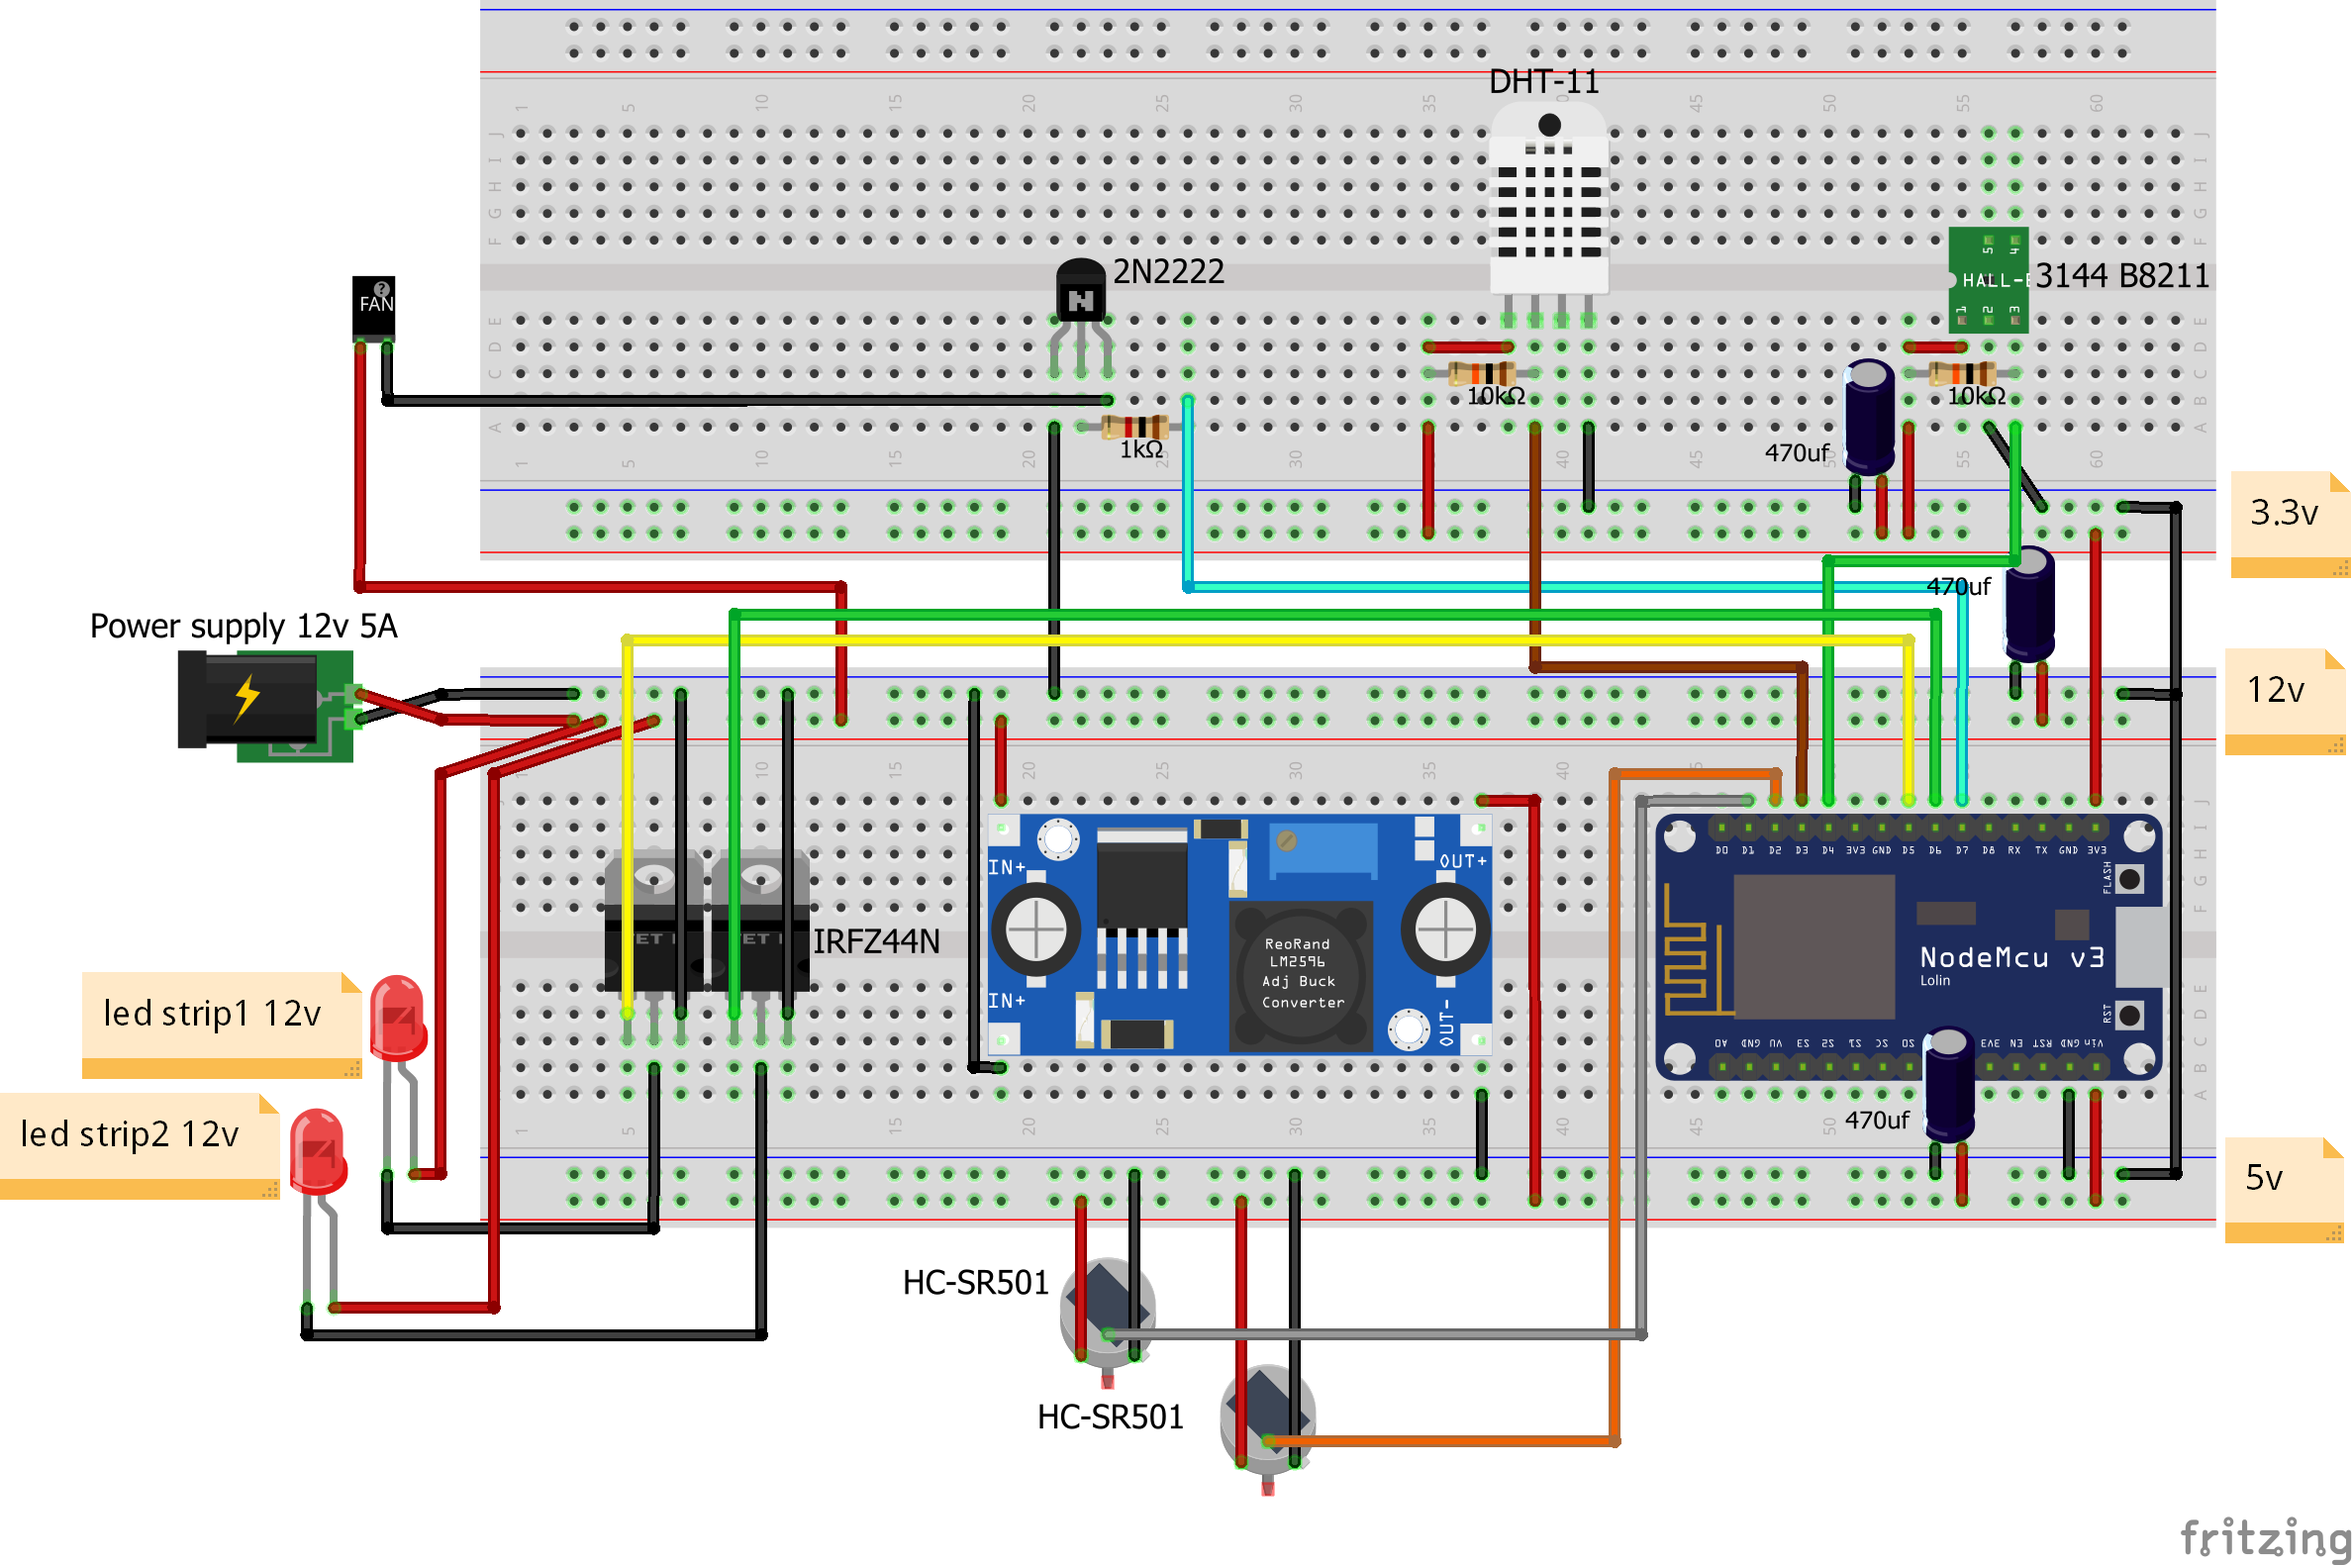
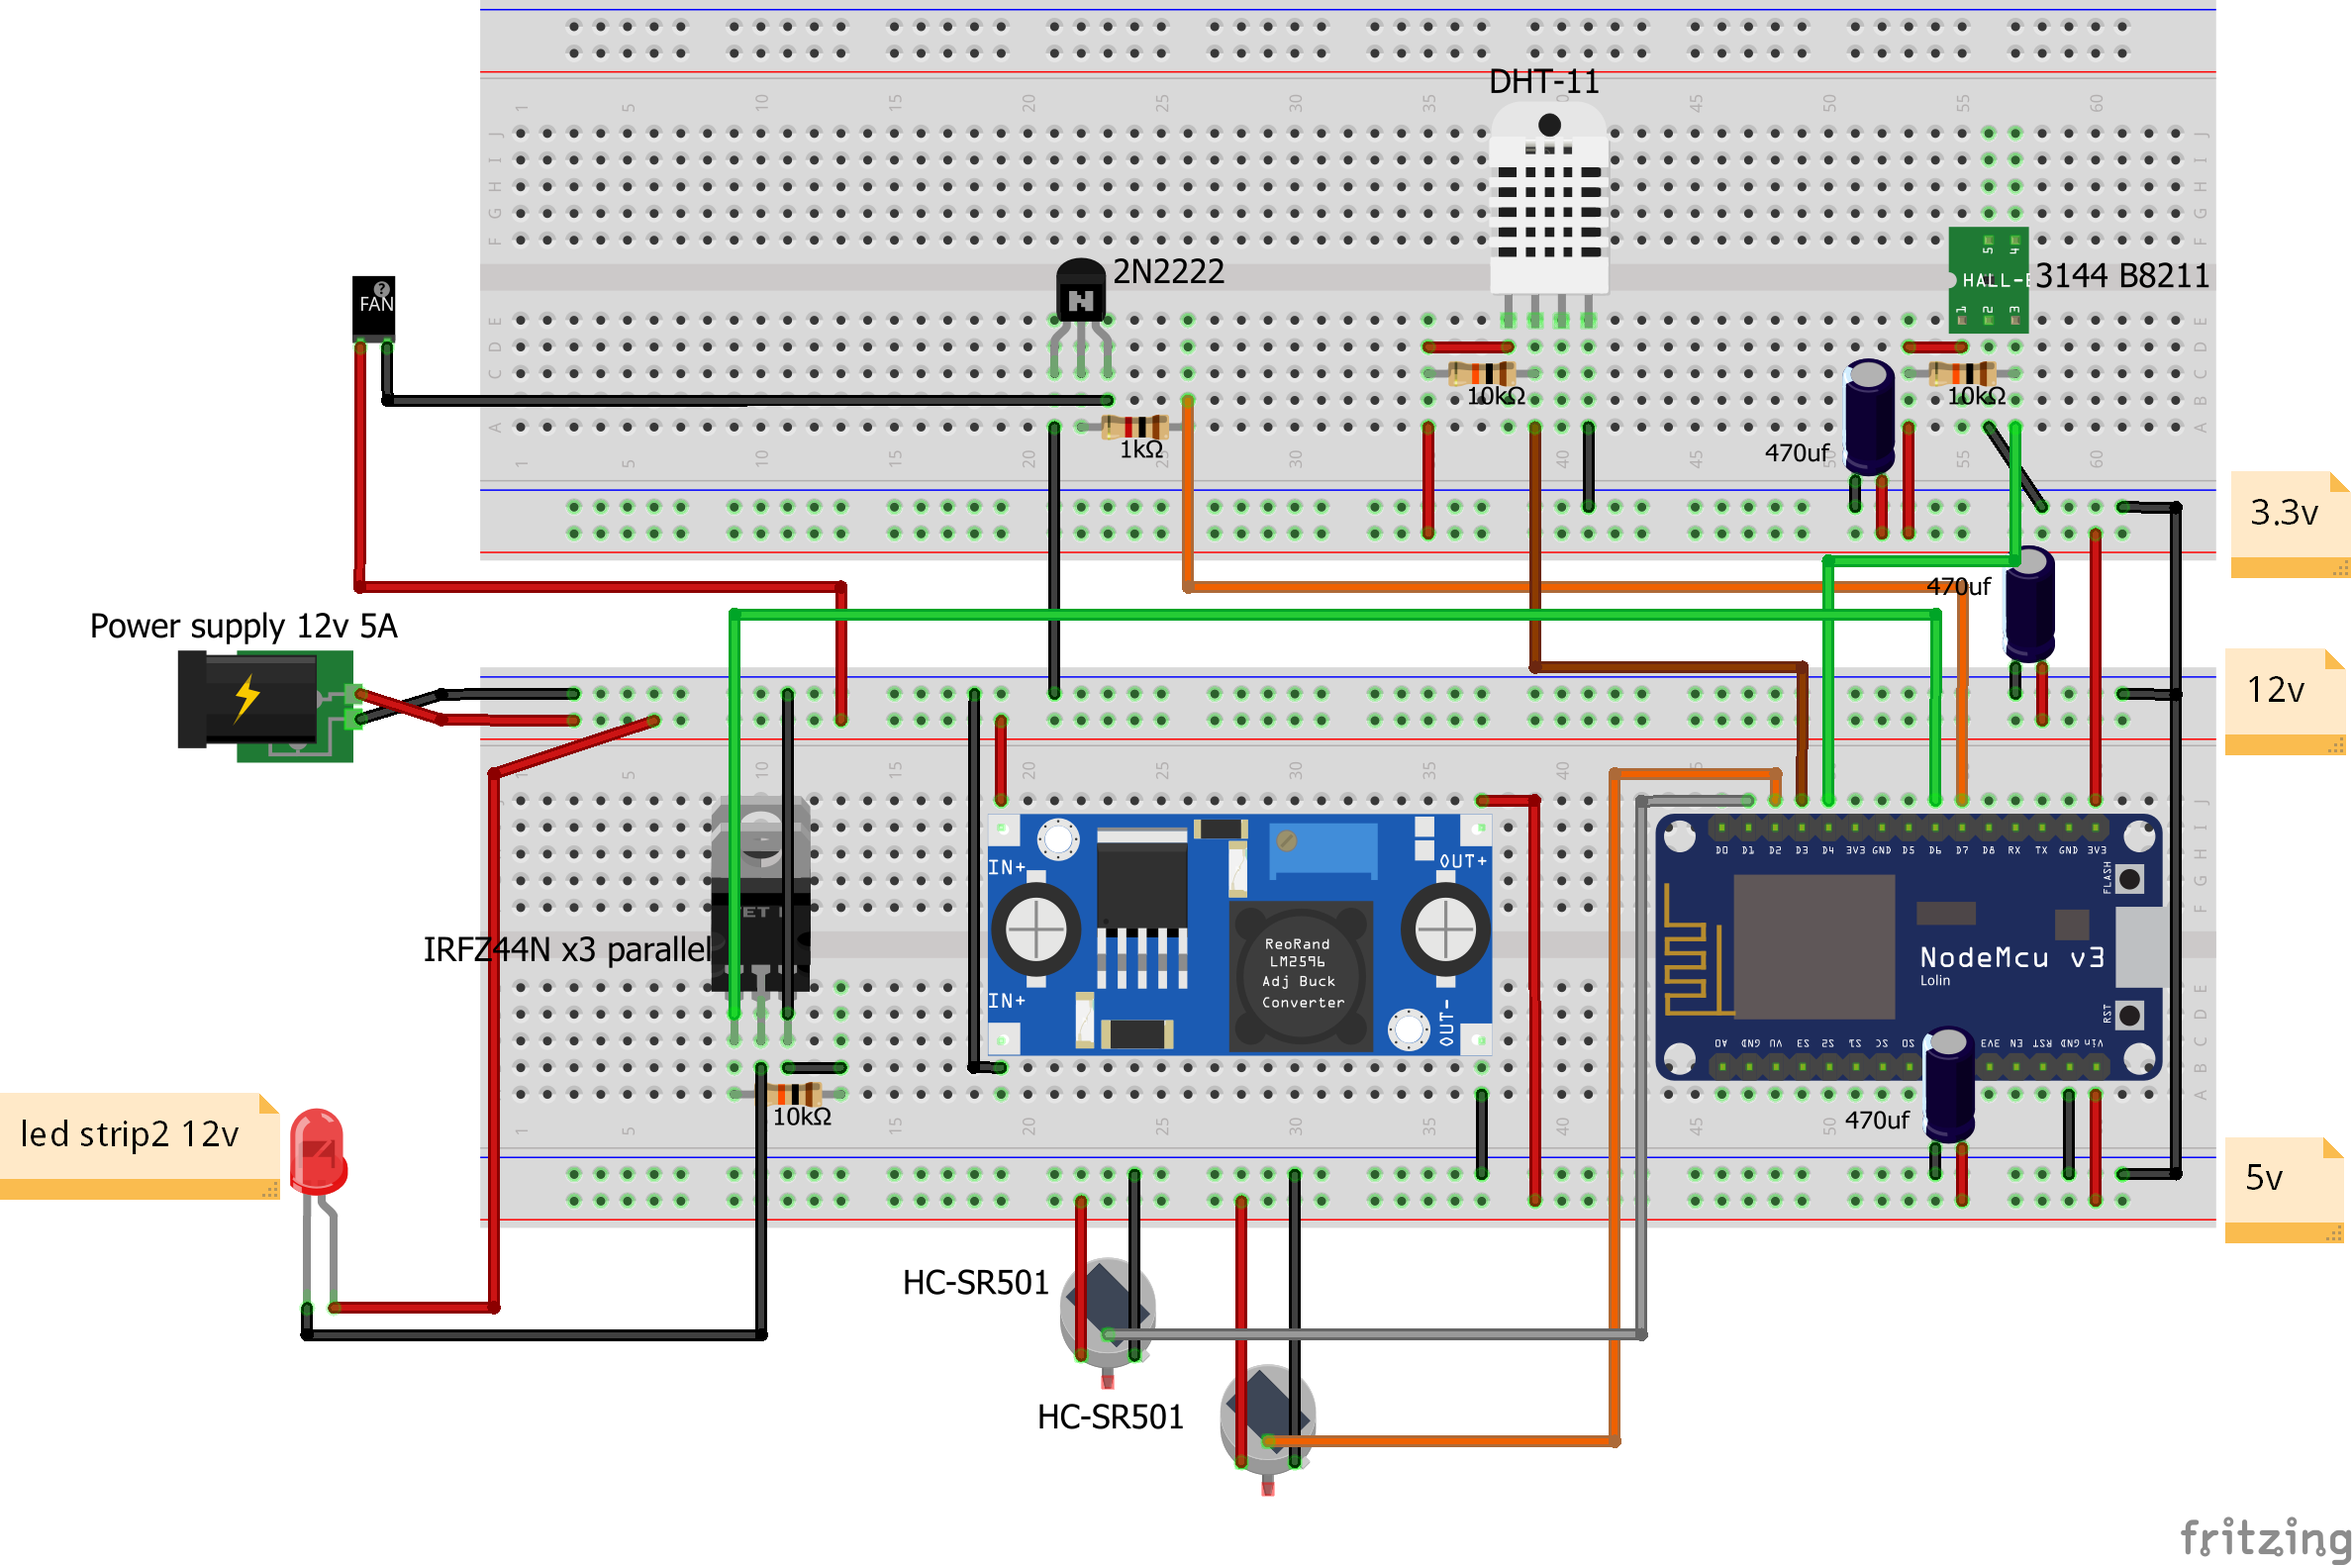
поставил яркую ленту, обновил прошивку и схему

Changed region(s): [[0.0311, 0.2479, 0.8409, 0.8058]]

diff --git a/esp_bathroom/src/main.cpp b/esp_bathroom/src/main.cpp
@@ -12,8 +12,7 @@
 
 const char* privateFile = "/private.json"; // файл для хранения учетных данных
 const char* configFile = "/config.json"; // файл для хранения настроек модуля
-const uint8_t LED1_PIN = D5;
-const uint8_t LED2_PIN = D6;
+const uint8_t LED_PIN = D6;
 const uint8_t FAN_PIN = D7;
 const uint8_t HALL_PIN = D4;
 const uint8_t TEMP_PIN = D3;
@@ -113,12 +112,10 @@ void fade(int from, int to) {
   int delta = (to - from) / fadeSteps;
   while (curstep < fadeSteps) {
     curpwm += delta;
-    analogWrite(LED1_PIN, curpwm);
-    analogWrite(LED2_PIN, curpwm);
+    analogWrite(LED_PIN, curpwm);
     curstep++;
     delay(fadeInterval);
   }
-  
 }
 
 void switchLed() {
@@ -338,8 +335,7 @@ void delayLoop() {
 
 void setup() {
   Serial.begin(115200);
-  pinMode(LED1_PIN, OUTPUT);
-  pinMode(LED2_PIN, OUTPUT);
+  pinMode(LED_PIN, OUTPUT);
   pinMode(FAN_PIN, OUTPUT);
   pinMode(HALL_PIN, INPUT);
   pinMode(MOTION_ROOM_PIN, INPUT);
